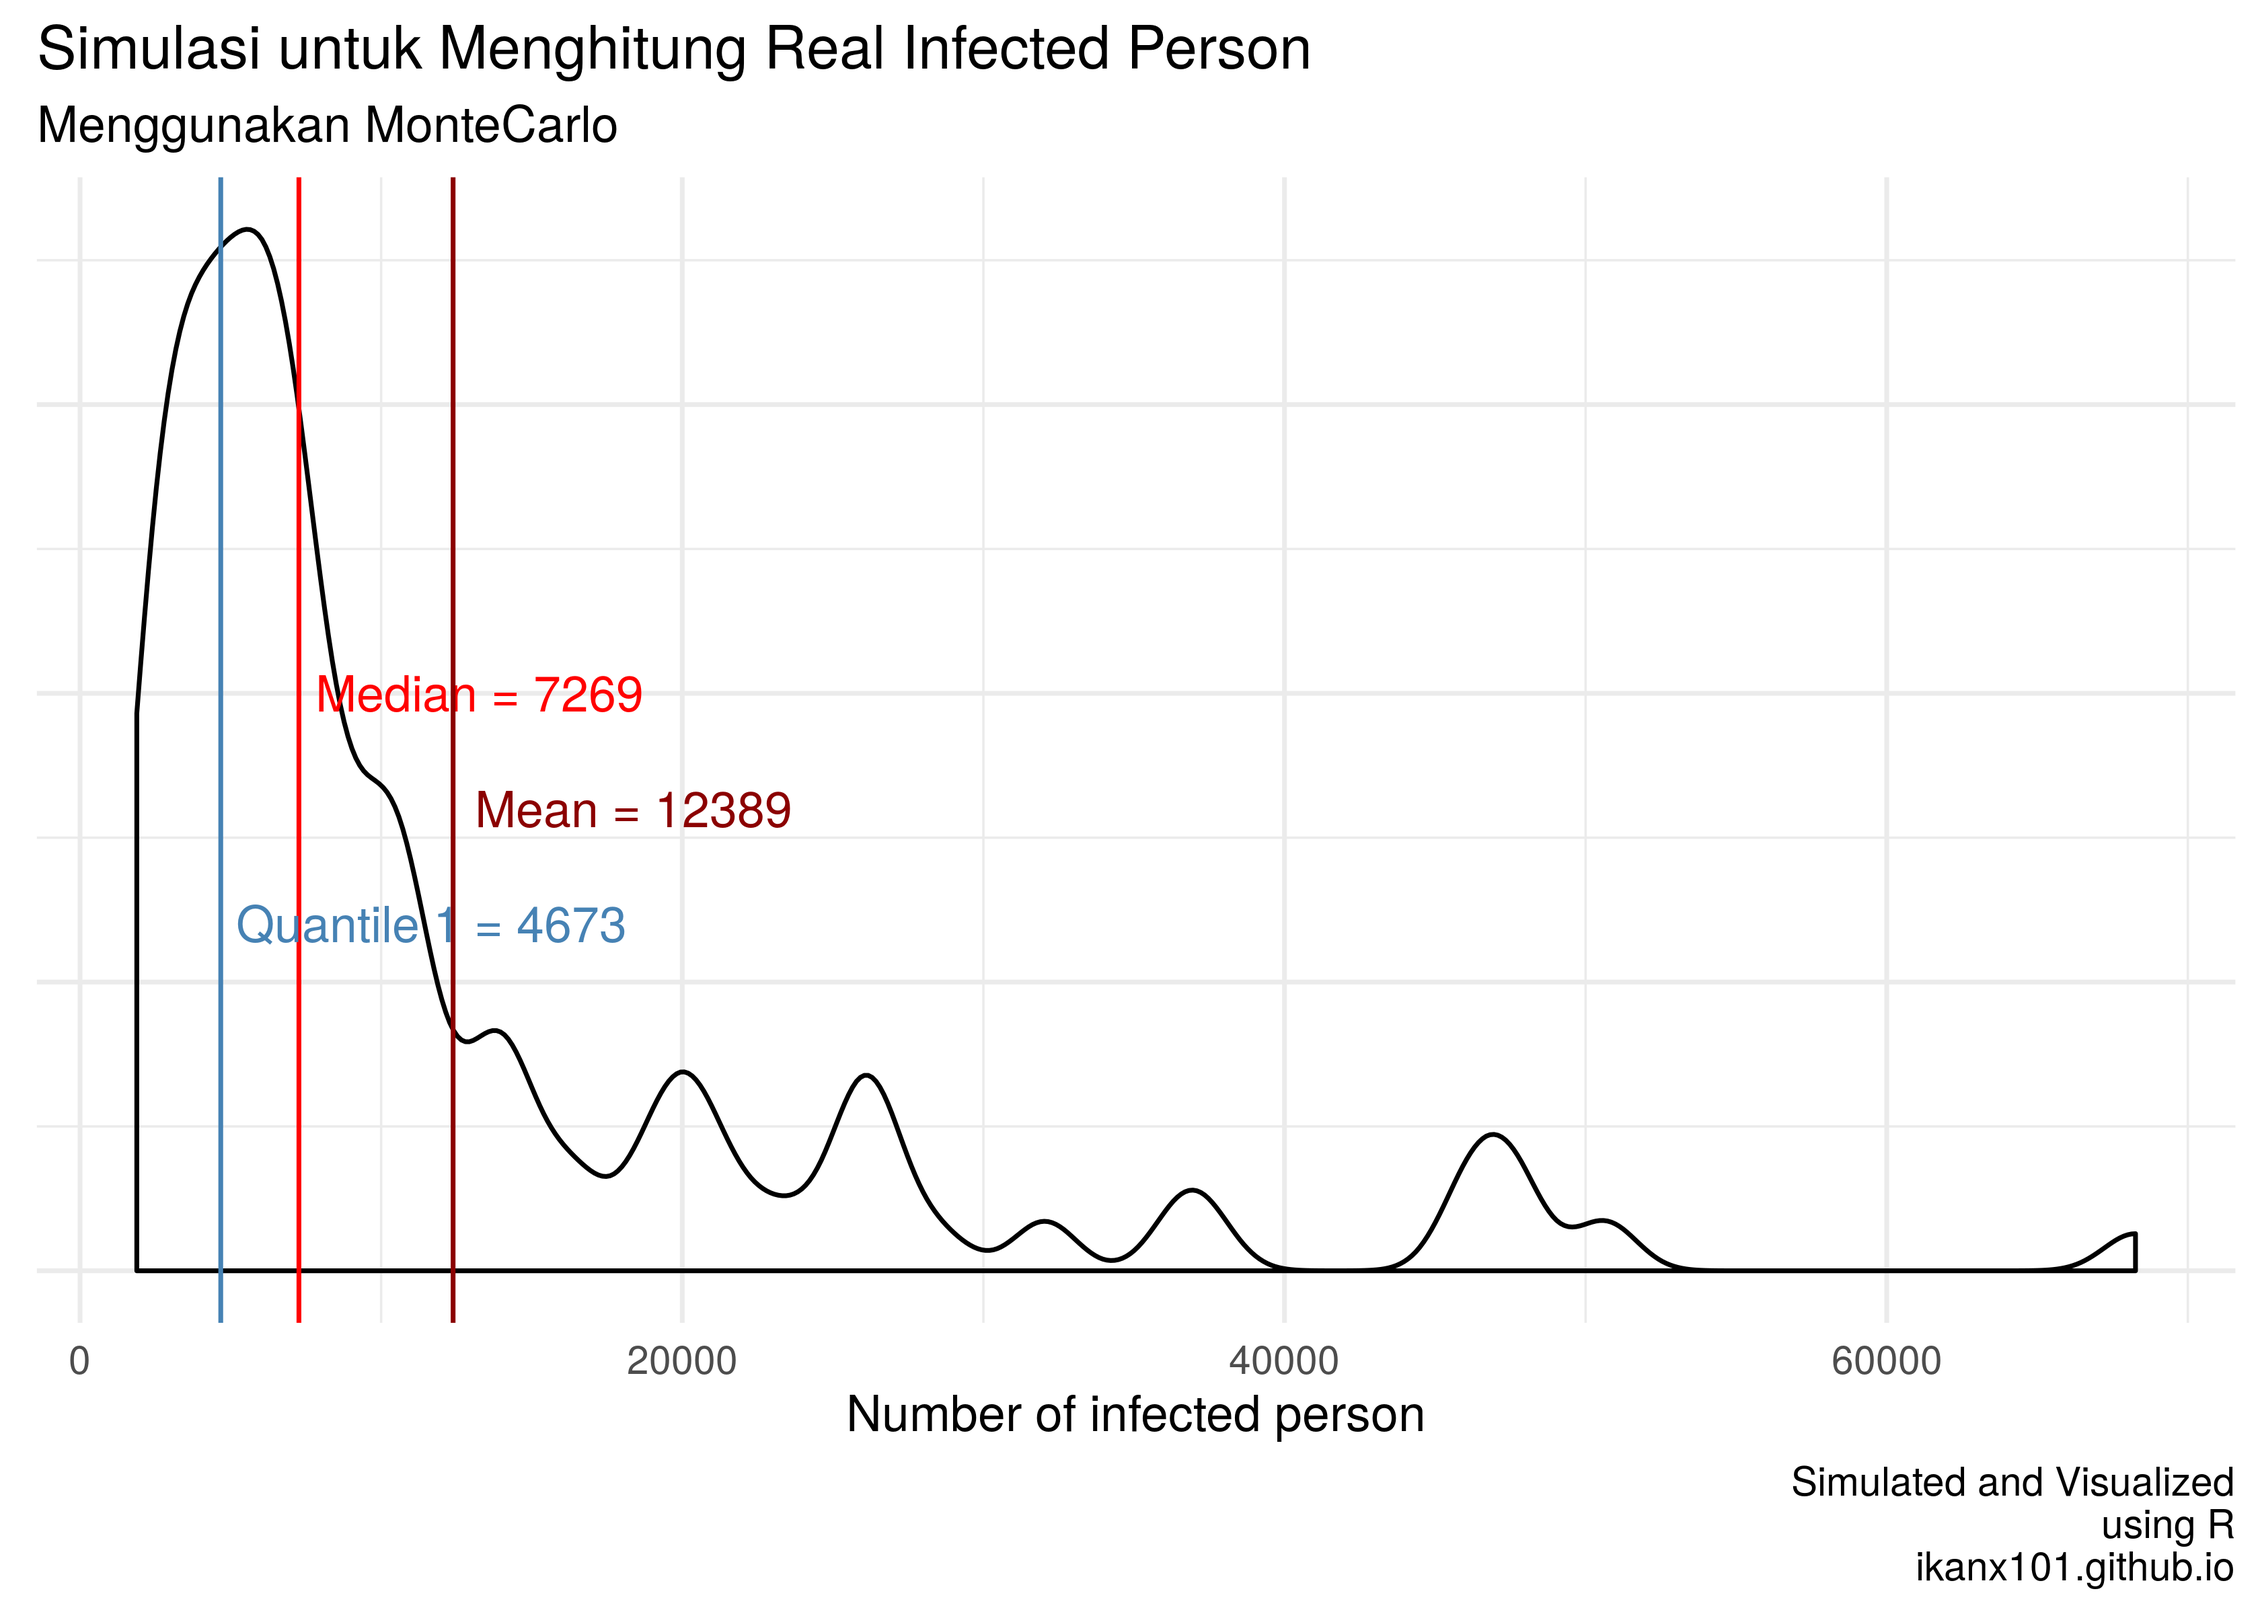
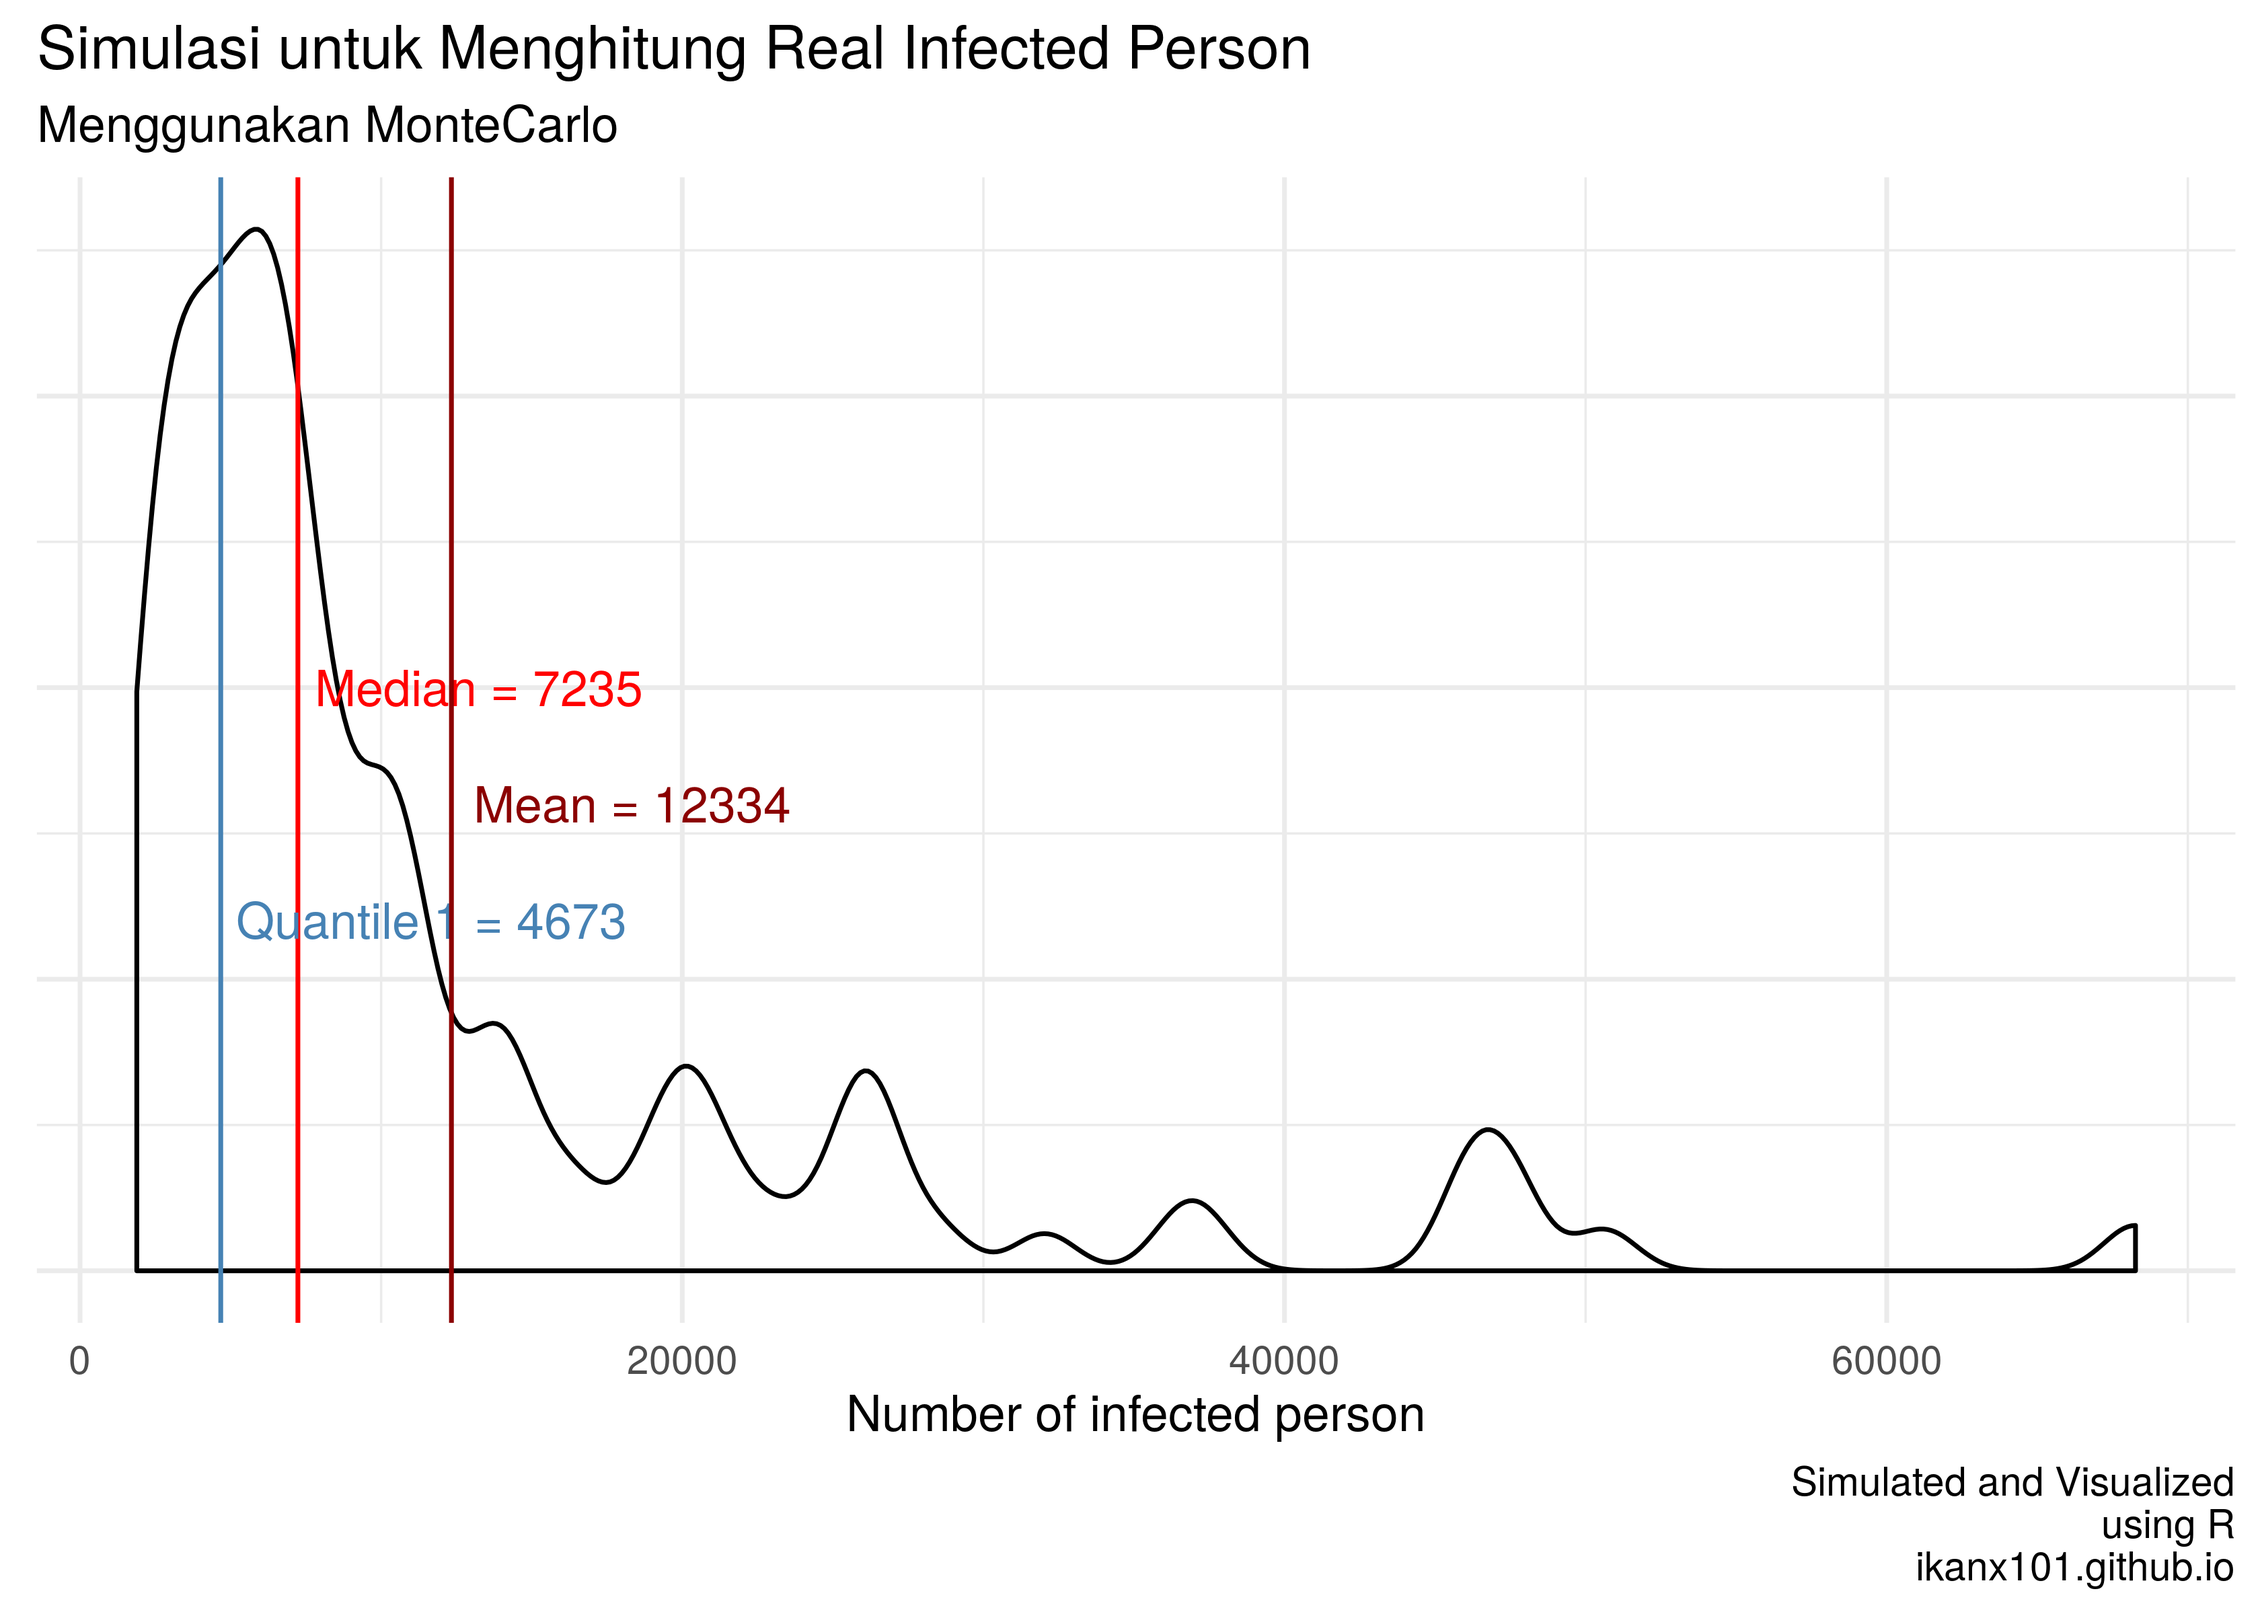
wayne

diff --git a/Bukan Infografis/covid angka real/covid-real.md b/Bukan Infografis/covid angka real/covid-real.md
@@ -72,7 +72,8 @@ sampai saat ini.
 
 **Apa itu?**
 
-Berapa banyak ![I\_0](https://latex.codecogs.com/png.latex?I_0 "I_0")?
+Berapa banyak ![I(0)](https://latex.codecogs.com/png.latex?I%280%29
+"I(0)")?
 
 **Kenapa menjadi penting?**
 
@@ -91,11 +92,11 @@ pasien positif asal Bekasi yang meninggal di Cianjur?
 Hal ini menunjukkan bahwa COVID-19 bisa jadi sudah ada di Indonesia
 sebelum kasus `01` dan `02` diumumkan oleh presiden.
 
-Dengan mengetahui ![I\_0](https://latex.codecogs.com/png.latex?I_0
-"I_0"), kita bisa melihat seberapa cepat penyebaran wabah ini. Oleh
+Dengan mengetahui ![I(0)](https://latex.codecogs.com/png.latex?I%280%29
+"I(0)"), kita bisa melihat seberapa cepat penyebaran wabah ini. Oleh
 karena kita tidak tahu ada berapa banyak
-![I\_0](https://latex.codecogs.com/png.latex?I_0 "I_0") yang ada di
-masyarakat. Akibatnya, kita tidak tahu posisi Indonesia sekarang di
+![I(0)](https://latex.codecogs.com/png.latex?I%280%29 "I(0)") yang ada
+di masyarakat. Akibatnya, kita tidak tahu posisi Indonesia sekarang di
 mana.
 
 > Apakah berada di awal kurva?
@@ -112,10 +113,10 @@ Akan landai sebentar lagi.
 
 ![](https://raw.githubusercontent.com/ikanx101/belajaR/master/Bukan%20Infografis/covid%20sir%20new/posting_files/figure-gfm/unnamed-chunk-7-1.png)<!-- -->
 
-Tanpa informasi ![I\_0](https://latex.codecogs.com/png.latex?I_0 "I_0")
-yang tepat (atau mendekati), kita akan sulit menghitung kecepatan
-penyebaran wabah. Namun demikian, kita masih bisa menghitung pada
-persentase berapa *infected person* ada di *peak position* dengan
+Tanpa informasi ![I(0)](https://latex.codecogs.com/png.latex?I%280%29
+"I(0)") yang tepat (atau mendekati), kita akan sulit menghitung
+kecepatan penyebaran wabah. Namun demikian, kita masih bisa menghitung
+pada persentase berapa *infected person* ada di *peak position* dengan
 mengandalkan ![R\_0](https://latex.codecogs.com/png.latex?R_0 "R_0").
 
 Saya coba lihat, hampir semua perhitungan model rekan-rekan
@@ -327,7 +328,12 @@ pengulangan
 <img src="covid-real_files/figure-gfm/unnamed-chunk-12-1.png" width="672" />
 
 Dari grafik di atas, saya memperkirakan bahwa *real infected person* di
-Indonesia berada di rentang antara 7269 sampai 1.238910^{4} orang.
+Indonesia berada di rentang antara 7235 sampai 1.233410^{4} orang.
+
+Jadi ada selisih ribuan orang yang belum dilaporkan ke pemerintah. Bisa
+jadi tidak dilaporkan karena gejala yang dialami sangat ringan sehingga
+bisa sembuh sendiri atau tidak perlu ke faskes atau tidak terdeteksi di
+faskes tingkat pertama.
 
 Wallahu a’lam.
 
